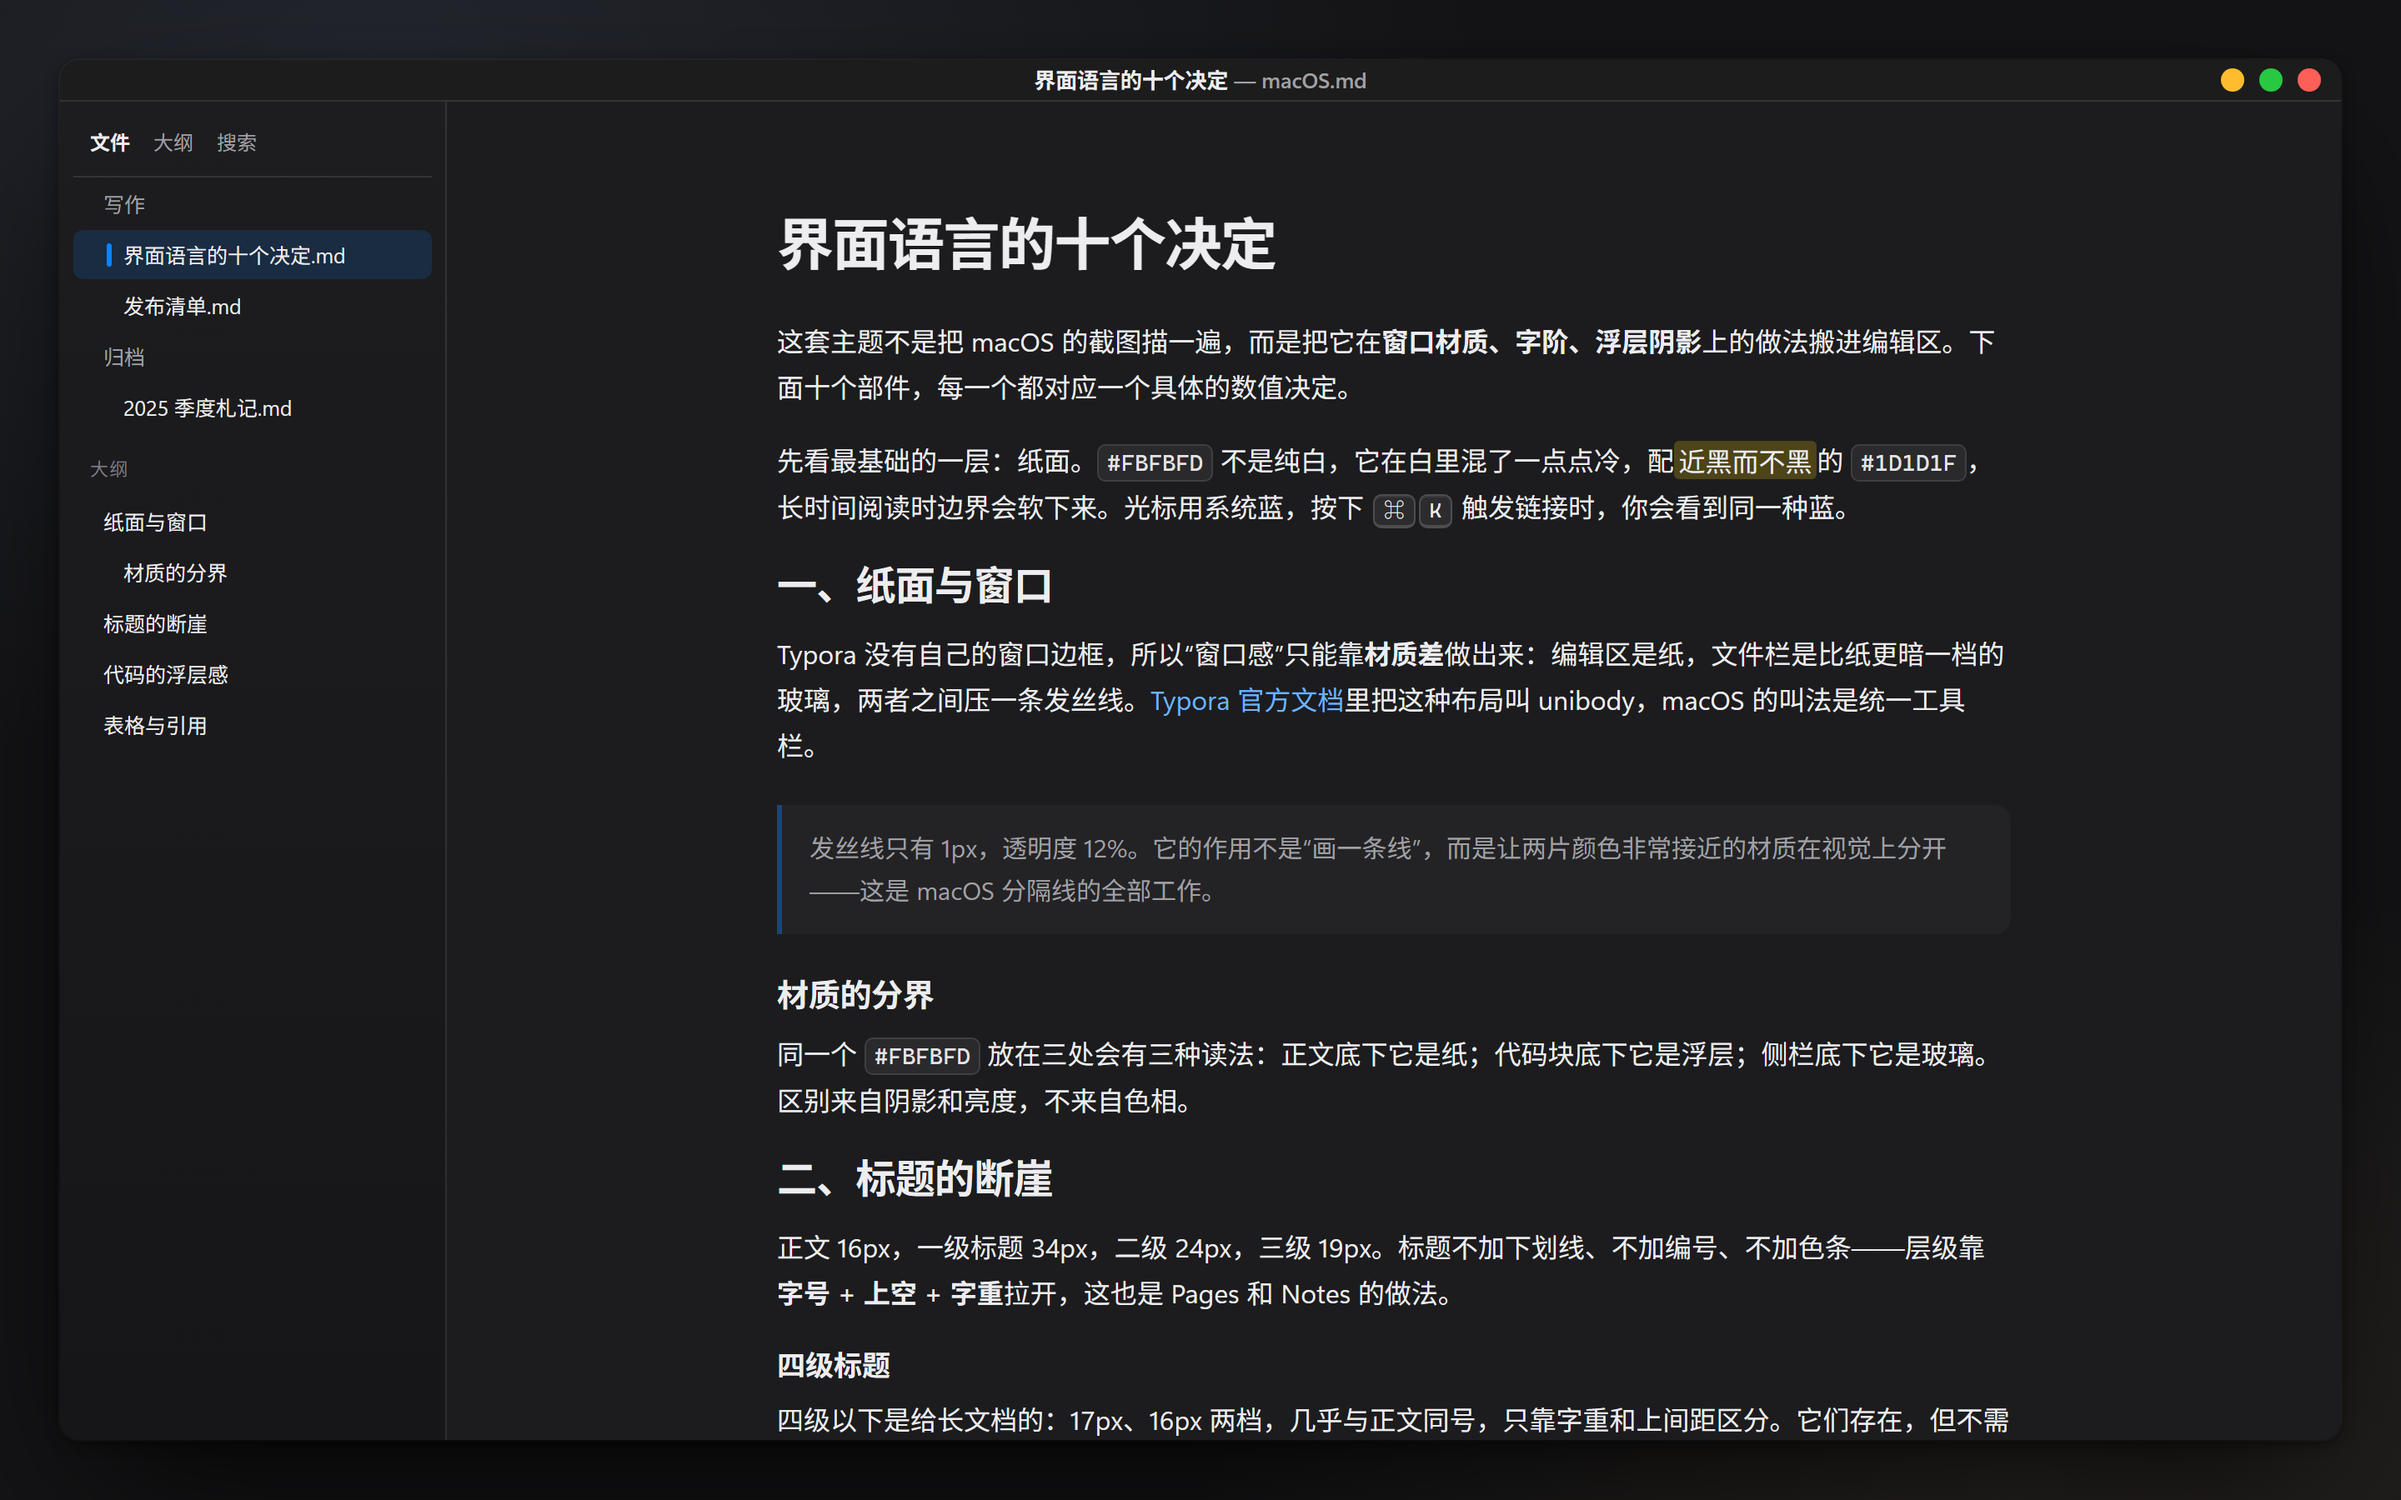
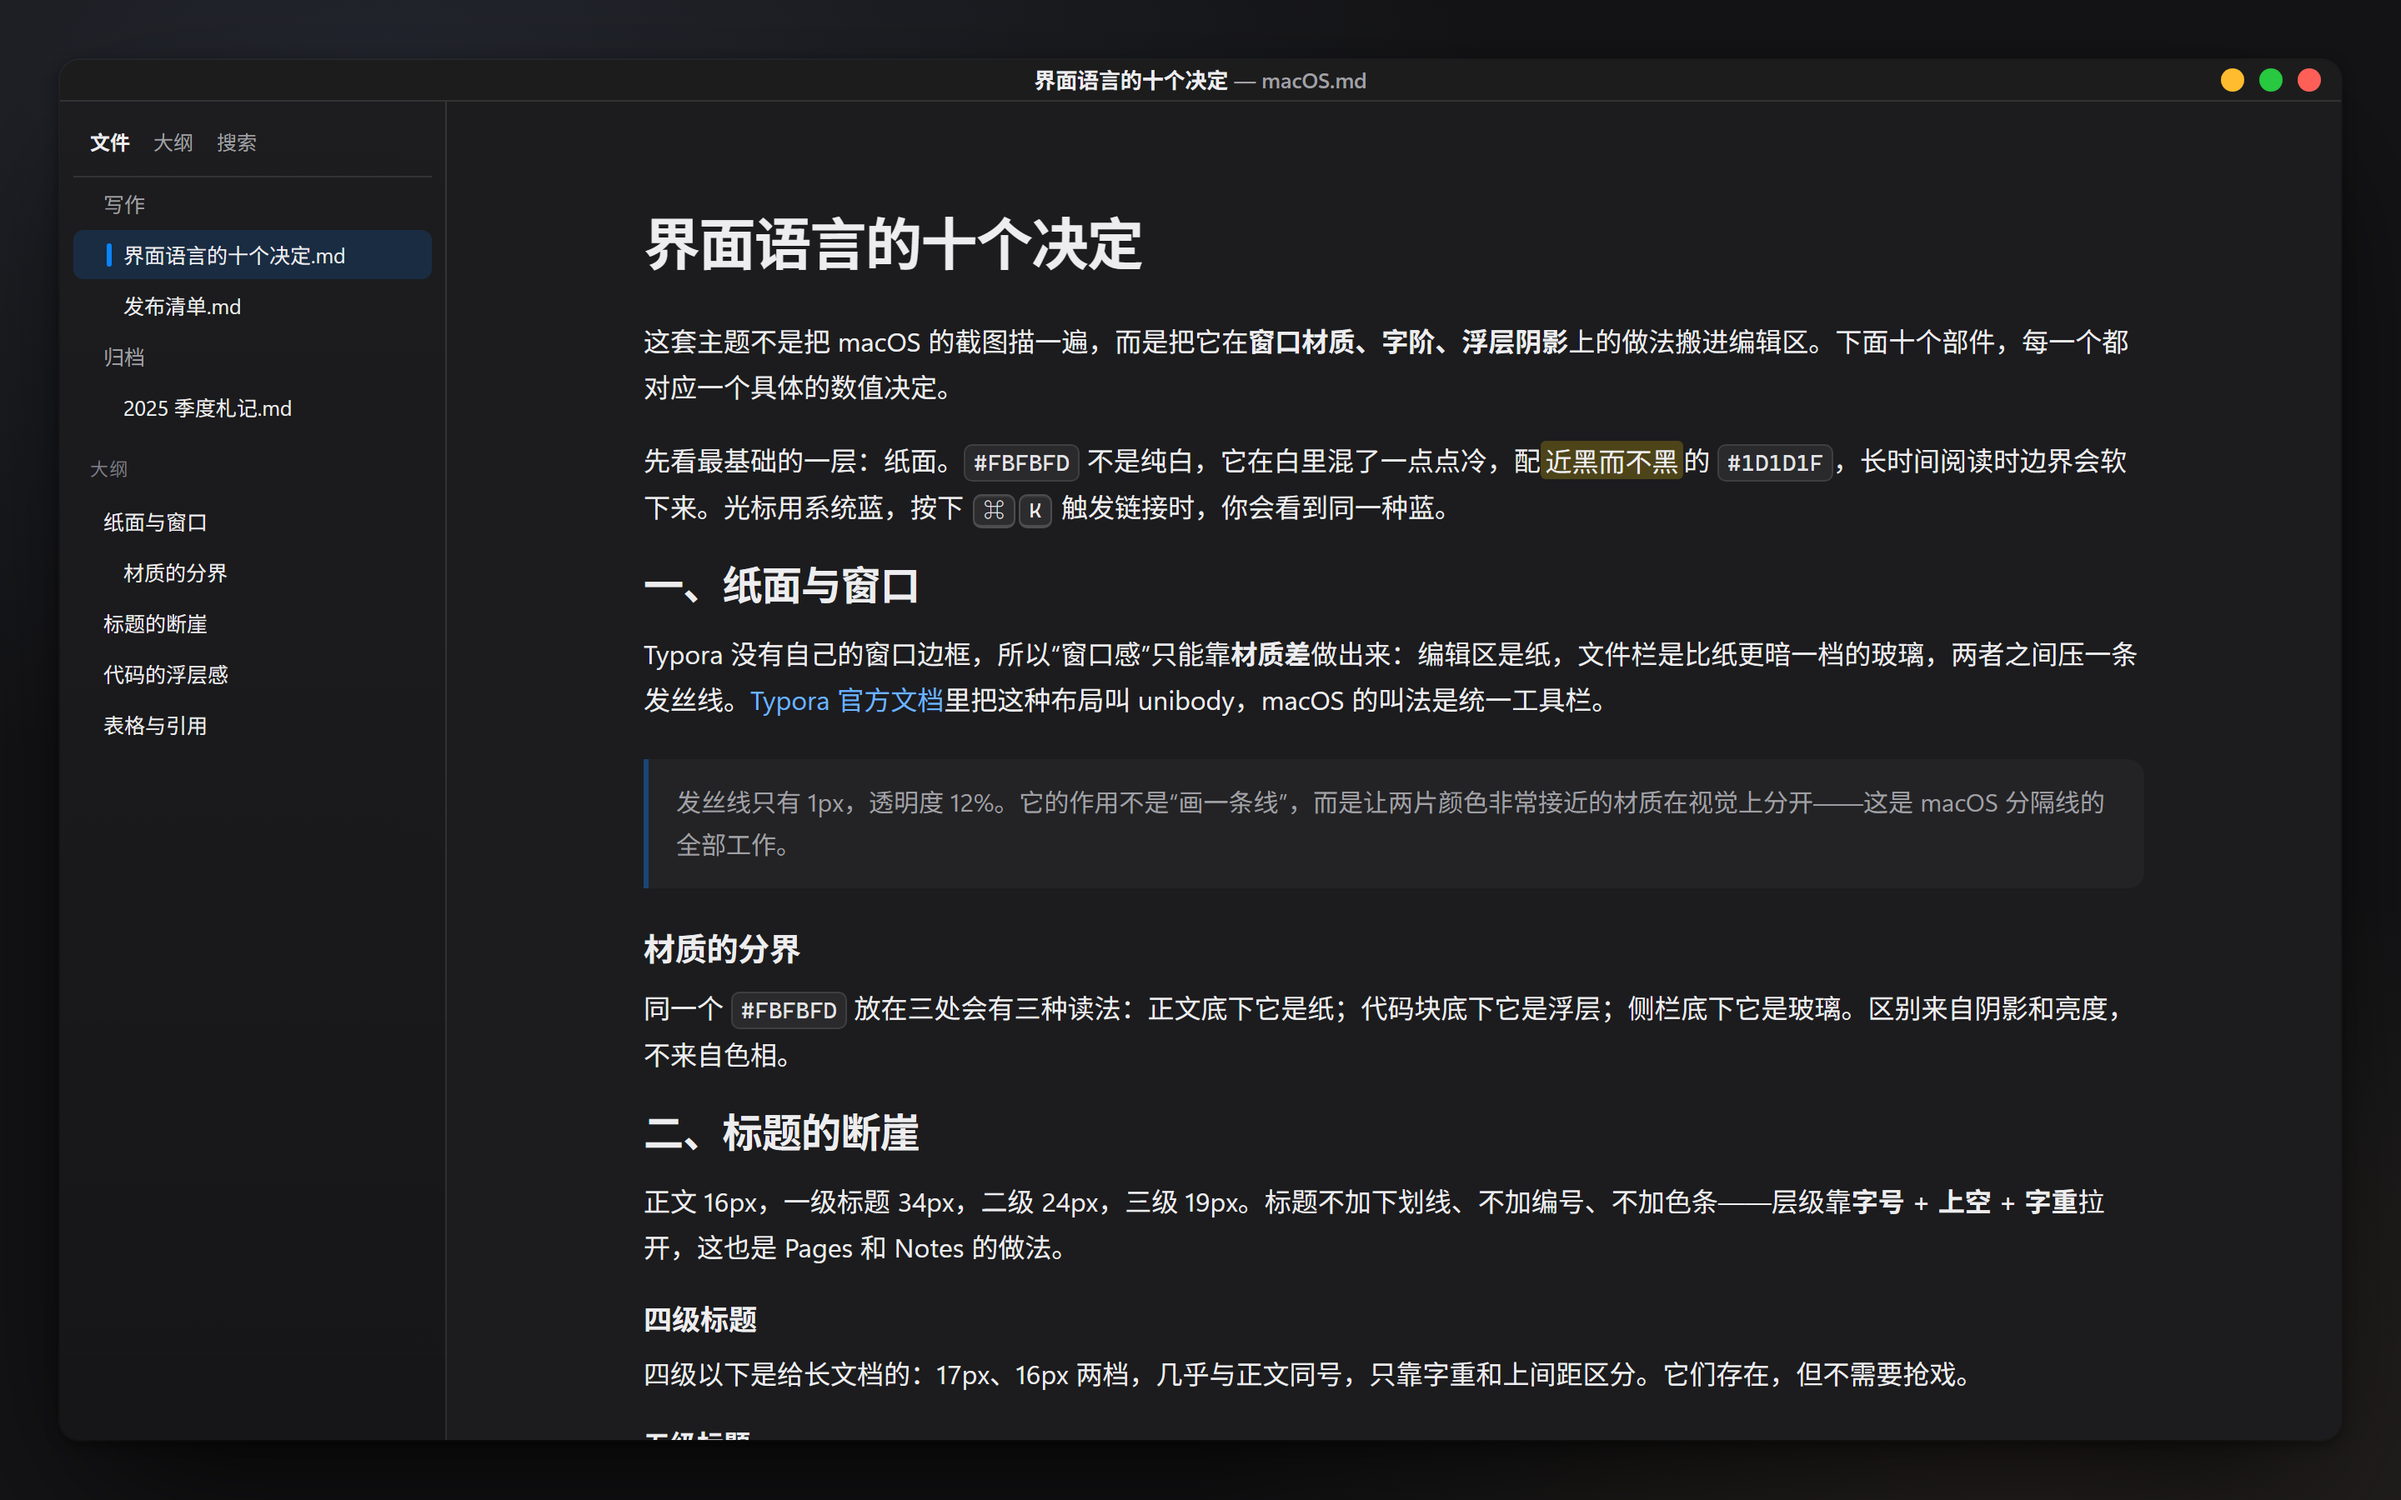
正文版心加宽到 900px（宽屏 980px），源代码模式同宽，圆点符号居中

diff --git a/macos-parts/window.css b/macos-parts/window.css
@@ -139,8 +139,19 @@
 #top-titlebar #w-min::after,
 #top-titlebar #w-max::after,
 #top-titlebar #w-restore::after {
+  position: absolute;
+  left: 0;
+  top: 0;
+  width: 100%;
+  height: 100%;
+  display: flex;
+  align-items: center;
+  justify-content: center;
   color: rgba(0, 0, 0, .62);
   font: 800 13px/1 var(--win-chrome-font);
+  /* 字体基线不对称，符号视觉重心比几何中心低 1.5px，这里补回来 */
+  transform: translateY(-1.5px);
+  pointer-events: none;
 }
 #top-titlebar #w-close:hover::after { content: "\00d7"; }
 #top-titlebar #w-min:hover::after { content: "\2212"; }

diff --git a/README.md b/README.md
@@ -32,7 +32,7 @@
 - **圆角按角色分档，阴影分三层**：浮层、卡片、控件各有一套。
 - **语法色取 Xcode**。浅色下关键字紫、字符串红、注释灰绿；深色另配一套，避免在暗底上发光。
 - **打印自动翻白**。深色主题在 `@media print` 里重新声明浅色令牌，导出 PDF 直接得到白纸黑字。
-- **正文版心 740px**（窗口宽于 1500px 时放宽到 780px），左右各留 40px，读长文时视线不来回跑。
+- **正文版心 900px**（窗口宽于 1500px 时放宽到 980px），左右各留 40px，中文一行约 51 字。源代码模式用同一组宽度。
 
 ### 顺手补的三处原生界面
 
